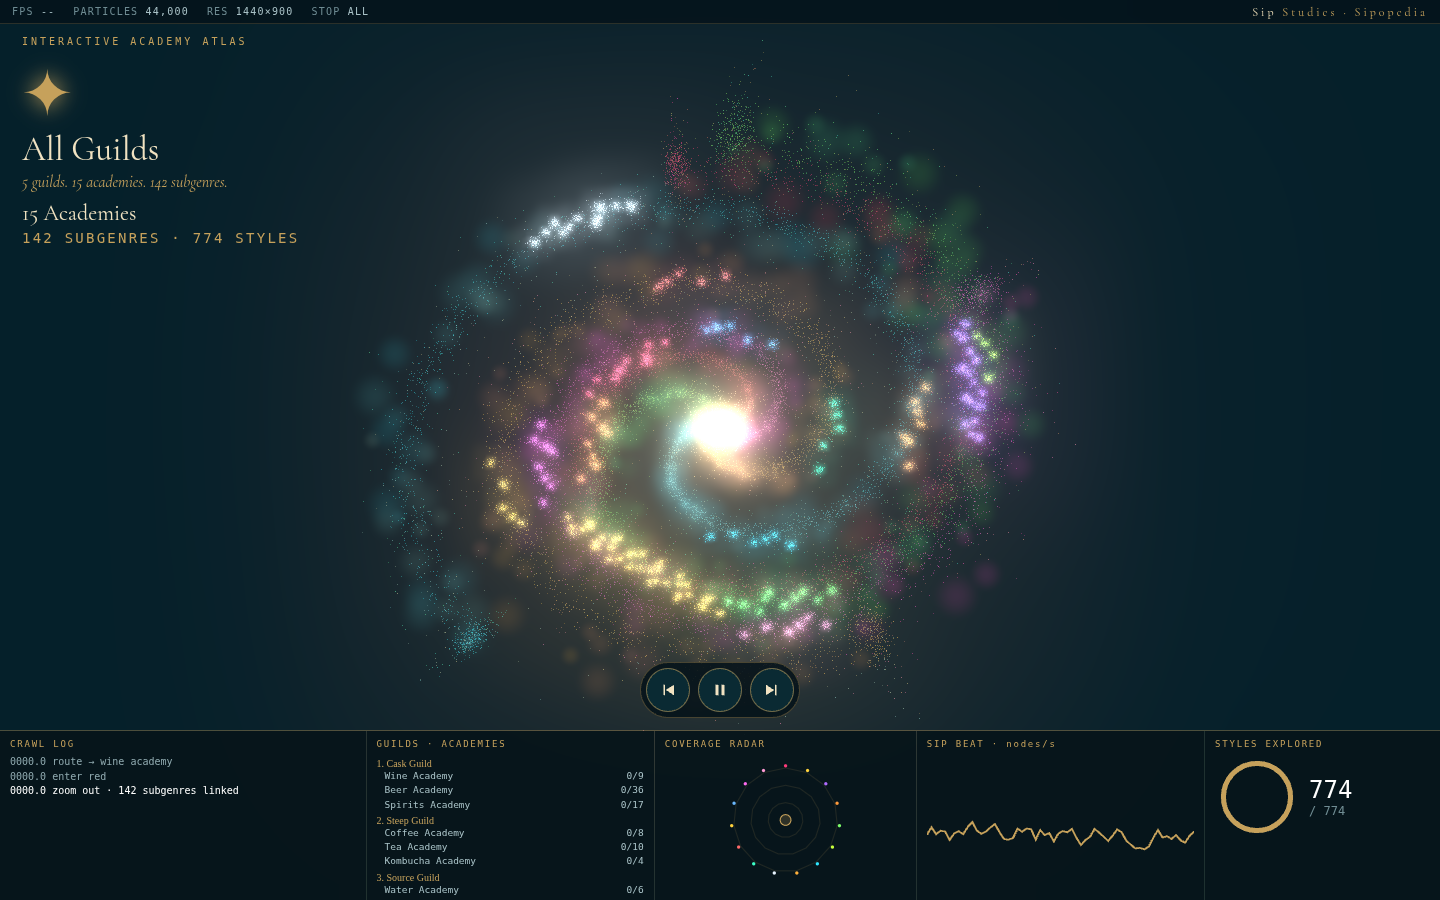
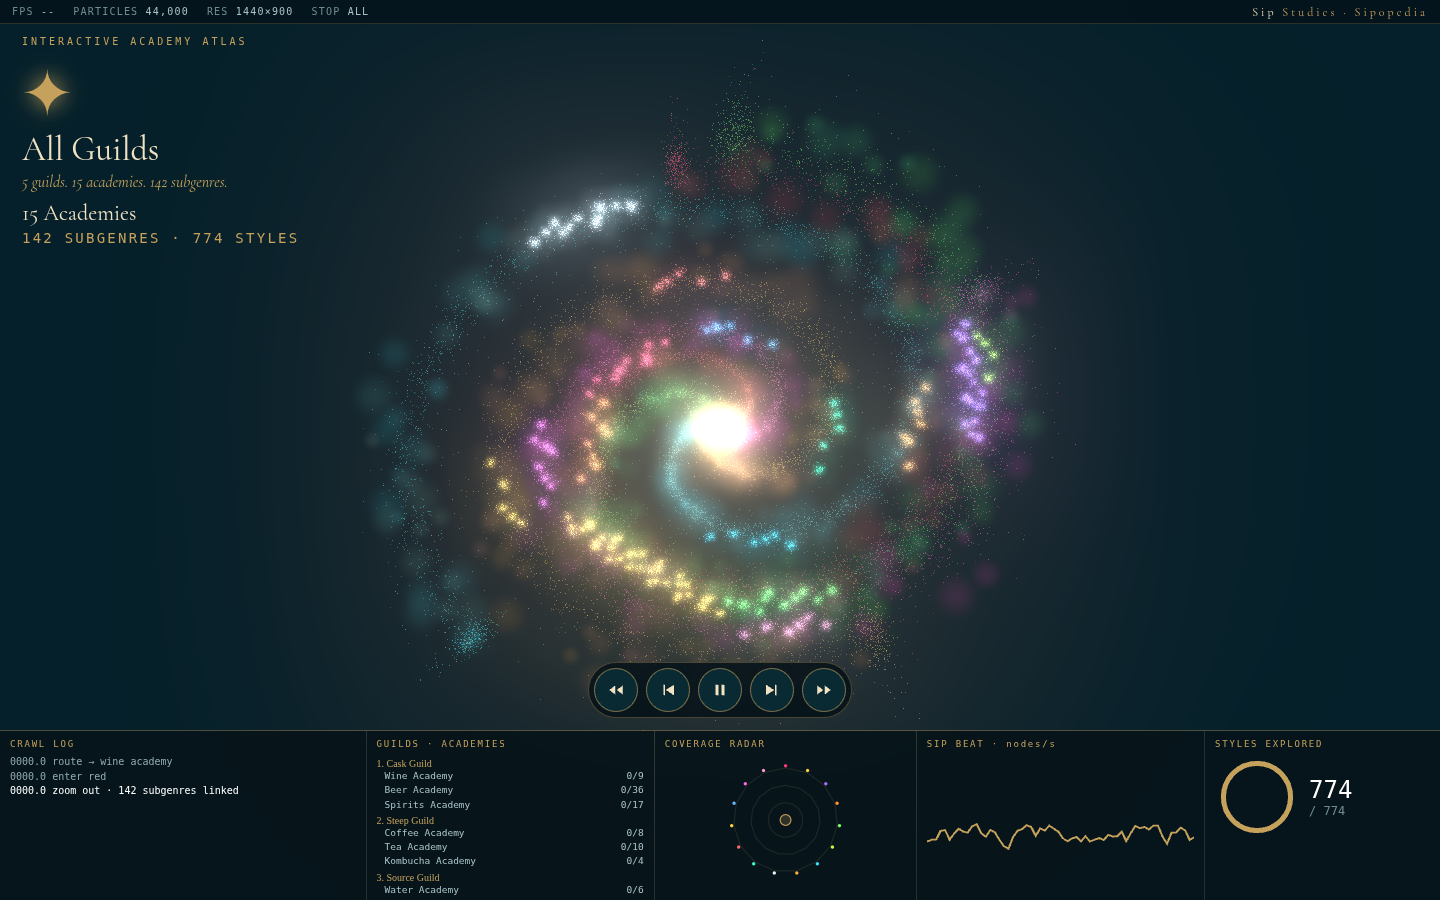
Academy rewind/fast-forward controls + keyboard, immediate styles counter updates on jumps

Changed region(s): [[0.6562, 0.9022, 0.8438, 0.9333], [0.5312, 0.7156, 0.5938, 0.8089], [0.4062, 0.7156, 0.4688, 0.8089]]

diff --git a/index.html b/index.html
@@ -16,7 +16,7 @@ body.still .tag,body.still #hub{transition:none!important}#step>div{width:fit-co
 #hub{position:fixed;z-index:3;transform:translate(-50%,0);pointer-events:none;text-align:center;padding:5px 12px;border:1px solid var(--c);background:#04141bee;box-shadow:0 0 18px -4px var(--c);border-radius:3px;white-space:nowrap;transition:opacity .3s}
 #hub b{display:block;font-size:clamp(12px,1.5vw,16px);letter-spacing:.14em;color:#fff}#hub i{display:block;font-style:normal;font-size:clamp(10px,1.1vw,12px);color:#c6a15b;font-family:Georgia,serif}
 #ctrl{position:fixed;left:50%;transform:translateX(-50%);bottom:182px;z-index:5;display:flex;gap:8px;background:#041219e0;border:1px solid #c6a15b55;border-radius:28px;padding:5px}
-#ctrl button{width:44px;height:44px;display:grid;place-items:center;border-radius:50%;border:1px solid #c6a15b88;background:#0a2a33;color:#f1e3c2;font-size:18px;cursor:pointer}#ctrl button:hover,#ctrl button:focus-visible{background:#c6a15b;color:#04141b;outline:2px solid #f1e3c2;outline-offset:2px}
+#ctrl button{flex:0 0 44px;width:44px;height:44px;display:grid;place-items:center;border-radius:50%;border:1px solid #c6a15b88;background:#0a2a33;color:#f1e3c2;font-size:18px;cursor:pointer}#ctrl button:hover,#ctrl button:focus-visible{background:#c6a15b;color:#04141b;outline:2px solid #f1e3c2;outline-offset:2px}
 #dash{position:fixed;left:0;right:0;bottom:0;z-index:3;display:grid;grid-template-columns:1.4fr 1.1fr 1fr 1.1fr .9fr;gap:1px;background:#c6a15b22;border-top:1px solid #c6a15b44;height:170px}
 .p{background:#041219ec;padding:8px 10px;overflow:hidden;font-size:10px}.p h4{font-weight:400;font-size:9px;letter-spacing:.2em;color:#c6a15b;margin-bottom:6px}
 #log div{white-space:nowrap;color:#8fa9af;line-height:1.45}#log div:last-child{color:#fff}
@@ -30,7 +30,7 @@ body.still .tag,body.still #hub{transition:none!important}#step>div{width:fit-co
 <div id="top"><span>FPS <b id="fps">--</b></span><span>PARTICLES <b id="pc">--</b></span><span class="hm">RES <b id="res">--</b></span><span class="hm">STOP <b id="stopn">--</b></span><div id="brand" class="serif">Sip <span>Studies</span><span class="x"> · Sipopedia</span></div></div>
 <div id="step"><div id="kick">INTERACTIVE ACADEMY ATLAS</div><div id="num">01</div><div id="title" class="serif">Cask Guild</div><div id="tagline" class="serif"></div><div id="acad" class="serif"></div><div id="subt"></div></div>
 <div id="tags"></div><div id="hub"><b></b><i></i></div>
-<div id="ctrl" role="toolbar" aria-label="Crawler controls"><button id="bPrev" aria-label="Previous stop" title="Previous (←)"><svg viewBox="0 0 24 24" width="18" height="18" fill="currentColor" aria-hidden="true"><path d="M6 5h2v14H6zM20 5v14L9 12z"/></svg></button><button id="bPlay" aria-label="Pause" title="Pause/Play (Space)"><svg viewBox="0 0 24 24" width="18" height="18" fill="currentColor" aria-hidden="true"><path d="M6 5h4v14H6zM14 5h4v14h-4z"/></svg></button><button id="bNext" aria-label="Next stop" title="Next (→)"><svg viewBox="0 0 24 24" width="18" height="18" fill="currentColor" aria-hidden="true"><path d="M16 5h2v14h-2zM4 5v14l11-7z"/></svg></button></div>
+<div id="ctrl" role="toolbar" aria-label="Crawler controls"><button id="bRew" aria-label="Previous academy" title="Rewind to academy start / previous academy (Shift+← or PageUp)"><svg viewBox="0 0 24 24" width="18" height="18" fill="currentColor" aria-hidden="true"><path d="M11 6v12L3 12zM21 6v12l-8-6z"/></svg></button><button id="bPrev" aria-label="Previous stop" title="Previous stop (←)"><svg viewBox="0 0 24 24" width="18" height="18" fill="currentColor" aria-hidden="true"><path d="M6 5h2v14H6zM20 5v14L9 12z"/></svg></button><button id="bPlay" aria-label="Pause" title="Pause/Play (Space)"><svg viewBox="0 0 24 24" width="18" height="18" fill="currentColor" aria-hidden="true"><path d="M6 5h4v14H6zM14 5h4v14h-4z"/></svg></button><button id="bNext" aria-label="Next stop" title="Next stop (→)"><svg viewBox="0 0 24 24" width="18" height="18" fill="currentColor" aria-hidden="true"><path d="M16 5h2v14h-2zM4 5v14l11-7z"/></svg></button><button id="bFF" aria-label="Next academy" title="Next academy (Shift+→ or PageDown)"><svg viewBox="0 0 24 24" width="18" height="18" fill="currentColor" aria-hidden="true"><path d="M13 6v12l8-6zM3 6v12l8-6z"/></svg></button></div>
 <div id="dash">
 <div class="p"><h4>CRAWL LOG</h4><div id="log" aria-live="off"></div></div>
 <div class="p hm"><h4>GUILDS · ACADEMIES</h4><div id="secs"></div></div>
@@ -169,12 +169,16 @@ const dist=MOB?260:200;lookTo.copy(stop.pos);lookTo.y+=offs*2*dist*Math.tan(27.5
 const cross=!prevS||prevS.g!=stop.g;travel=SP*(cross?3.4:first?2.4:1.4);dur=travel+dwell(stop.sg.styles.length);buildPath(stop);bump=cross?(MOB?380:300):first?90:25;
 if(first)log(`route → ${A.a.name.toLowerCase()}`);log(`enter ${sn.toLowerCase()}`);
 rows.forEach((d,i)=>d.className='ar'+(i==A.idx?' on':(acads[i].done==acads[i].n?' done':'')));const row=rows[A.idx];if(row&&!MOB)secsEl.scrollTop=row.offsetTop-secsEl.offsetTop-30}
-function jump(k){setStep(k,true)}
+function updCount(){const ex=cur>=NS?MAXS:PRE[cur]+(spawned?stop.sg.styles.length:0);$('sval').textContent=ex;$('stot').textContent='/ '+MAXS;$('ring').setAttribute('stroke-dashoffset',251*(1-ex/MAXS))}
+function jump(k){setStep(k,true);updCount()}
 setStep(0);cam.position.set(0,0,1300);
 // controls
 const bPlay=$('bPlay');function setPaused(v){paused=v;bPlay.innerHTML=v?'<svg viewBox="0 0 24 24" width="18" height="18" fill="currentColor" aria-hidden="true"><path d="M7 4v16l13-8z"/></svg>':'<svg viewBox="0 0 24 24" width="18" height="18" fill="currentColor" aria-hidden="true"><path d="M6 5h4v14H6zM14 5h4v14h-4z"/></svg>';bPlay.setAttribute('aria-label',v?'Play':'Pause')}
 bPlay.onclick=()=>setPaused(!paused);$('bPrev').onclick=()=>jump(cur>=NS?NS-1:cur-1);$('bNext').onclick=()=>jump(cur+1);
-addEventListener('keydown',e=>{if(e.target.closest&&e.target.closest('button,[role=button]')&&e.key==' ')return;if(e.key=='ArrowRight'){jump(cur+1);e.preventDefault()}else if(e.key=='ArrowLeft'){jump(cur>=NS?NS-1:cur-1);e.preventDefault()}else if(e.key==' '){setPaused(!paused);e.preventDefault()}});
+let lastRew=-9;function rew(){const t=performance.now()/1000;if(cur>=NS){jump(acads[AN-1].first);lastRew=t;return}const A=subs[cur].A;const atStart=cur==A.first;if(atStart||t-lastRew<1.5){const pi=(A.idx-1+AN)%AN;jump(acads[pi].first)}else jump(A.first);lastRew=t}
+function ff(){if(cur>=NS){jump(0);return}const A=subs[cur].A;if(A.idx==AN-1)jump(NS);else jump(acads[A.idx+1].first)}
+$('bRew').onclick=rew;$('bFF').onclick=ff;
+addEventListener('keydown',e=>{if(e.target.closest&&e.target.closest('button,[role=button]')&&e.key==' ')return;if((e.shiftKey&&e.key=='ArrowLeft')||e.key=='PageUp'){rew();e.preventDefault()}else if((e.shiftKey&&e.key=='ArrowRight')||e.key=='PageDown'){ff();e.preventDefault()}else if(e.key=='ArrowRight'){jump(cur+1);e.preventDefault()}else if(e.key=='ArrowLeft'){jump(cur>=NS?NS-1:cur-1);e.preventDefault()}else if(e.key==' '){setPaused(!paused);e.preventDefault()}});
 let last=performance.now(),fr=0,ft=0,FIX=0;const tmp=new THREE.Vector3();
 function frame(t,noloop){const rdt=FIX||Math.min(.05,(t-last)/1000);last=t;const dt=paused?0:rdt;now+=dt;fr++;ft+=rdt;if(ft>.5&&!FIX){$('fps').textContent=Math.round(fr/ft);fr=0;ft=0}
 const all=cur>=NS,e=now-stepStart,mv=ease(Math.min(1,e/travel));
@@ -184,7 +188,7 @@ ring.rotation.z+=rdt*(RM?.3:1.6);crawler.scale.setScalar(1+Math.sin(now*6)*.06);
 tp.copyWithin(3,0,(TL-1)*3);tp[0]=crawler.position.x;tp[1]=crawler.position.y;tp[2]=crawler.position.z;tg.attributes.position.needsUpdate=true;
 const cp=crawler.position.clone().project(cam),cx=(cp.x+1)/2*innerWidth,cy=(1-cp.y)/2*innerHeight;
 if(!all){if(e>travel*.85)hub.style.opacity=1;if(!spawned){hub.style.left=cx+'px';hub.style.top=(cy+(MOB?16:22))+'px'}
-if(e>travel&&!spawned){spawned=true;spawnT(stop,cx,cy);if(!seen[cur]){seen[cur]=1;stop.A.done++;rows[stop.A.idx].lastChild.textContent=`${stop.A.done}/${stop.A.n}`}}
+if(e>travel&&!spawned){spawned=true;spawnT(stop,cx,cy);updCount();if(!seen[cur]){seen[cur]=1;stop.A.done++;rows[stop.A.idx].lastChild.textContent=`${stop.A.done}/${stop.A.n}`}}
 if(e>travel)lit[cur]=Math.min(1,lit[cur]+rdt*1.2)}
 tendrils.forEach((td,j)=>{const a=Math.max(0,Math.min(1,(now-td.born-td.delay)/.6)),k=1-Math.pow(1-a,3)+(RM?0:Math.sin(a*Math.PI*3)*.08*(1-a));const sx=td.sx,sy=td.sy;
 tmp.set(sx/innerWidth*2-1,-(sy/innerHeight*2-1),cp.z).unproject(cam);td.end.copy(tmp);
@@ -194,7 +198,7 @@ td.line.geometry.attributes.position.needsUpdate=true;
 if(a>=1&&!td.done){td.done=true;td.el.style.opacity=1;score++;log(`${VERBS[(j+cur)%VERBS.length]} · ${td.el.textContent}`);beatArr[beatArr.length-1]=1}});
 for(let i=0;i<NS;i++)litData[i*4]=lit[i];litTex.needsUpdate=true;pm.uniforms.uT.value=now;
 if(fr%2==0&&!paused){beatArr.push(Math.min(1,beatArr[beatArr.length-1]*.6+.08+Math.random()*.3*(all?.5:1)));beatArr.shift()}
-if(fr%3==0){const c=all?'#c6a15b':stop.A.a.color;drawRadar(c);drawBeat(c);const ex=cur>=NS?MAXS:PRE[cur]+(spawned?stop.sg.styles.length:0);$('sval').textContent=ex;$('stot').textContent='/ '+MAXS;$('ring').setAttribute('stroke-dashoffset',251*(1-ex/MAXS))}
+if(fr%3==0){const c=all?'#c6a15b':stop.A.a.color;drawRadar(c);drawBeat(c);updCount()}
 if(e>dur&&!paused)setStep(all?0:cur+1);
 if(!noloop){comp.render();requestAnimationFrame(frame)}}
 function rs(){MOB=innerWidth<760;cam.aspect=innerWidth/innerHeight;cam.updateProjectionMatrix();r.setSize(innerWidth,innerHeight);comp.setSize(innerWidth,innerHeight);$('res').textContent=innerWidth+'×'+innerHeight}

diff --git a/README.md b/README.md
@@ -4,7 +4,7 @@ A one-page WebGL atlas matching Sipopedia.com's structure: **5 guilds → 15 aca
 
 **Live:** https://sip-coder.github.io/sip-guilds/
 
-- Controls: ⏮ / ⏸▶ / ⏭ buttons, keyboard ← → and Space; click a guild/academy in the GUILDS · ACADEMIES panel to jump there.
+- Controls: ⏪ previous academy (first press = start of current academy) / ⏮ previous stop / ⏯ / ⏭ next stop / ⏩ next academy; keyboard ← → (stop), Shift+← → or PageUp/PageDown (academy), Space; click a guild/academy in the GUILDS · ACADEMIES panel to jump there.
 - Data: [`data/guilds.json`](data/guilds.json) (guild > academy > subgenre > styles) · outline [`data/guilds.pdf`](data/guilds.pdf) · generator `build/taxonomy.py`.
 - Placement choices: sake, cider, perry and mead live in **Fermented Academy** (Culture Guild); NA beer/wine and zero-proof spirits sit inside the Beer/Wine/Spirits academies; club soda/tonic moved to Carbonated; yerba mate moved from Tea to Regional, guayusa to Energy.
 - Static files; Three.js 0.160.0 (unpkg) + UnrealBloomPass; GPU-side per-subgenre lighting; respects `prefers-reduced-motion`. Preview helpers: `?stop=<index>&t=<sec>` or `?seek=<sec>`.
